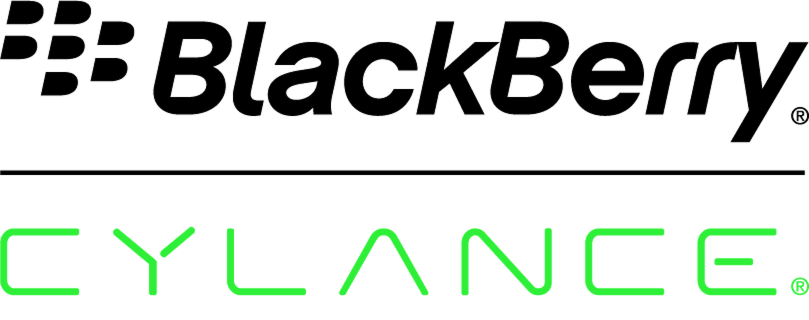
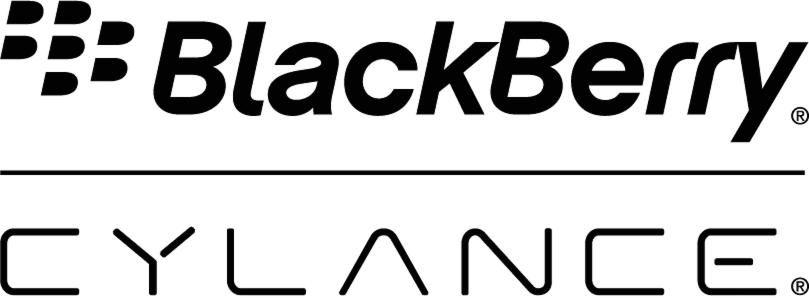
carousel the companies

diff --git a/src/components/teams-content.tsx b/src/components/teams-content.tsx
@@ -1,58 +1,61 @@
 import Image from "next/image";
+import Marquee from "@/components/ui/marquee";
 
 interface TeamsContentProps {
     isMobile?: boolean;
 }
 
-export function TeamsContent({isMobile}: TeamsContentProps) {
+export function TeamsContent({ isMobile }: TeamsContentProps) {
 
     const teams = [
         {
             "company": "Google",
-            "logo": "/companies/google.svg",
+            "logo": "/assets/companies/google.png",
             "url": "https://cloud.google.com/security",
             "description": "Google Cloud Security",
-            "width":1,
-            "height":0.5
+            "width": 1.25,
+            "height": 0.5
         },
         {
             "company": "Trend Micro",
             "logo": "/companies/trend.svg",
             "url": "https://www.trendmicro.com/about.html",
             "description": "Trend Micro Email Security",
-            "width":1,
-            "height":0.5
+            "width": 1.5,
+            "height": 0.5
         },
         {
             "company": "BlackBerry",
-            "logo": "/companies/blackberry.svg",
+            "logo": "/assets/companies/cylance.png",
             "url": "https://www.blackberry.com/company/overview",
             "description": "BlackBerry CylanceMDR",
-            "width":1.25,
-            "height":0.5
+            "width": 1.75,
+            "height": 0.5
         },
         {
             "company": "CertiK",
             "logo": "/companies/certik.svg",
             "url": "https://www.certik.com/company/about",
             "description": "CertiK Skynet",
-            "width":1.25,
-            "height":0.5
+            "width": 1.5,
+            "height": 0.5
         },
     ]
 
     let logoWidth = 90
     let logoMargin = 2
     let logoMarginBottom = 2
-    if (!!isMobile){
+    if (!!isMobile) {
         logoWidth = 70
         logoMargin = 0
-        logoMarginBottom = 4
+        logoMarginBottom = 2
     }
+    let teamsFinal = teams.slice(1).concat(teams.slice(0,1))
 
     return (
-        <div className={`flex flex-wrap dark:invert justify-evenly align-center`}>
-            {teams.map((team) => (
+        <div className={`w-[300px] flex flex-wrap dark:invert justify-evenly align-center mt-[8px]`}>
+            <Marquee className="[--duration:20s] flex justify-center align-center">
+                {teamsFinal.map((team) => (
                 <a href={team.url} className={`flex pl-${logoMargin} pr-${logoMargin}`} key={team.company}>
                     <Image
                         className={`m-2 mb-${logoMarginBottom}`}
@@ -63,7 +66,8 @@ export function TeamsContent({isMobile}: TeamsContentProps) {
                         priority
                     />
                 </a>
-            ))}
+                ))}
+            </Marquee>
         </div>
     )
 }
